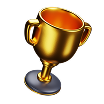
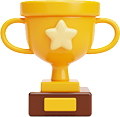
zap: 마이스터디 스터디 카드 수정

diff --git a/src/components/profile/MyStudyList.tsx b/src/components/profile/MyStudyList.tsx
@@ -2,15 +2,29 @@
 
 import { useProfileStore } from "@/stores/memberStore";
 import StudyCard from "../common/StudyCard";
-import {
-    getValidAvatar,
-    categoryMap,
-    dayMap,
-    regionMap,
-} from "@/utils/studyDataMap";
+import { categoryMap, regionMap, scheduleString } from "@/utils/studyDataMap";
+import { studyMembers } from "@/api/studies";
+import { useQueries } from "@tanstack/react-query";
 
 export default function MyStudyList() {
     const { data3 } = useProfileStore();
+
+    const isNewFunc = (start: string) => {
+        const now = new Date();
+        const startDate = new Date(start);
+        return now < startDate;
+    };
+
+    const leaderQueries = useQueries({
+        queries: (data3 || []).map((v) => ({
+            queryKey: ["studyMembers", v.studyId],
+            queryFn: () => studyMembers(v.studyId),
+            select: (data: Members[]) => data.find((m) => m.role === "LEADER"),
+            enabled: !!v.studyId,
+            staleTime: 1000 * 60 * 3,
+        })),
+    });
+    const leaders = leaderQueries.map((q) => q.data);
 
     return (
         <>
@@ -21,12 +35,10 @@ export default function MyStudyList() {
                             key={i}
                             studyId={v.studyId}
                             category={categoryMap[v.category]}
-                            isNew={new Date(v.start_date) > new Date()}
+                            isNew={isNewFunc(v.start_date)}
                             title={v.title}
-                            avatar={getValidAvatar(v.leaderAvatar)}
-                            schedule={v.schedules
-                                .map((day) => dayMap[day])
-                                .join(", ")}
+                            avatar={leaders[i]?.profileImage}
+                            schedule={scheduleString(v.schedules)}
                             startTime={v.startTime}
                             endTime={v.endTime}
                             region={regionMap[v.region]}
@@ -35,6 +47,7 @@ export default function MyStudyList() {
                                 max: v.maxMemberCount,
                             }}
                             studyType={v.studyType}
+                            leaderId={leaders[i]?.memberId}
                         />
                     ))
                 ) : (

diff --git a/src/stores/memberStore.ts b/src/stores/memberStore.ts
@@ -1,16 +1,11 @@
 import { create } from "zustand";
 import { fetchMemeberPage, fetchMemeberInfo } from "@/api/members";
 import { fetchStudyList } from "@/api/studyList";
-import { fetchLeaderAvatar } from "@/api/fetchUser";
-
-type StudyCardWithAvatar = StudyInfo & {
-    leaderAvatar: string | null;
-};
 
 interface ProfileStore {
     data: MemberProfile | null;
     data2: MemberInfoType | null;
-    data3: StudyCardWithAvatar[] | null;
+    data3: MemberStudyList[] | null;
     memberId: number;
     loading: boolean;
     fetch: (id: number) => Promise<void>;
@@ -34,23 +29,10 @@ export const useProfileStore = create<ProfileStore>((set) => ({
 
             const memberId = res3.memberId;
 
-            const avatarList = await Promise.all(
-                res3.studies.map((study: StudyCardWithAvatar) => {
-                    return fetchLeaderAvatar(study.studyId);
-                }),
-            );
-
-            const studyList = res3.studies.map(
-                (study: StudyCardWithAvatar, i: number) => ({
-                    ...study,
-                    leaderAvatar: avatarList[i],
-                }),
-            );
-
             set({
                 data: res.data,
                 data2: res2.data,
-                data3: studyList,
+                data3: res3.studies,
                 memberId: memberId,
                 loading: false,
             });

diff --git a/src/types/user.d.ts b/src/types/user.d.ts
@@ -27,6 +27,22 @@ interface MemberInfoType {
 interface MemberStudies {
     memberId: number;
     nickname: string;
-    studies: StudyInfo[];
+    studies: MemberStudyList[];
 }
 // "members/{memberId}/studies"의 가입한 스터디 목록 조회
+
+interface MemberStudyList {
+    studyId: number;
+    title: string;
+    currentMemberCount: number;
+    maxMemberCount: number;
+    category: string;
+    region: string;
+    place: null;
+    start_date: string;
+    end_date: string;
+    schedules: string[];
+    startTime: string;
+    endTime: string;
+    studyType: "DEFAULT" | "SURVIVAL";
+}

diff --git a/src/app/survival-study/[studyId]/page.tsx b/src/app/survival-study/[studyId]/page.tsx
@@ -95,7 +95,7 @@ export default function SurvivalStudy() {
             <div className="relative mb-10 h-screen">
                 <div className="relative">
                     <Image
-                        src="/images/roomImgs/room7.png"
+                        src="/images/rewardItems/19.png"
                         alt="survival study"
                         width={1000}
                         height={470}
